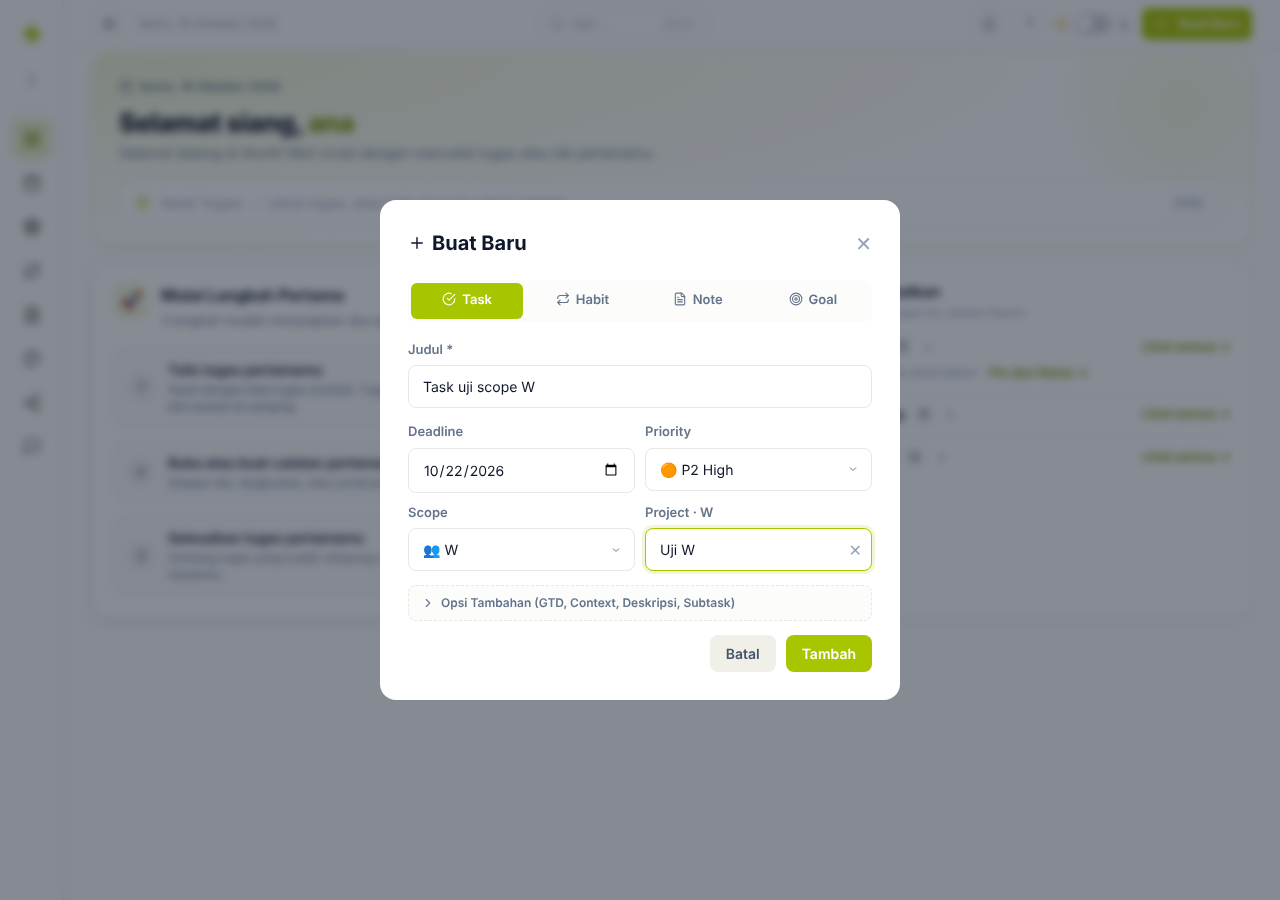
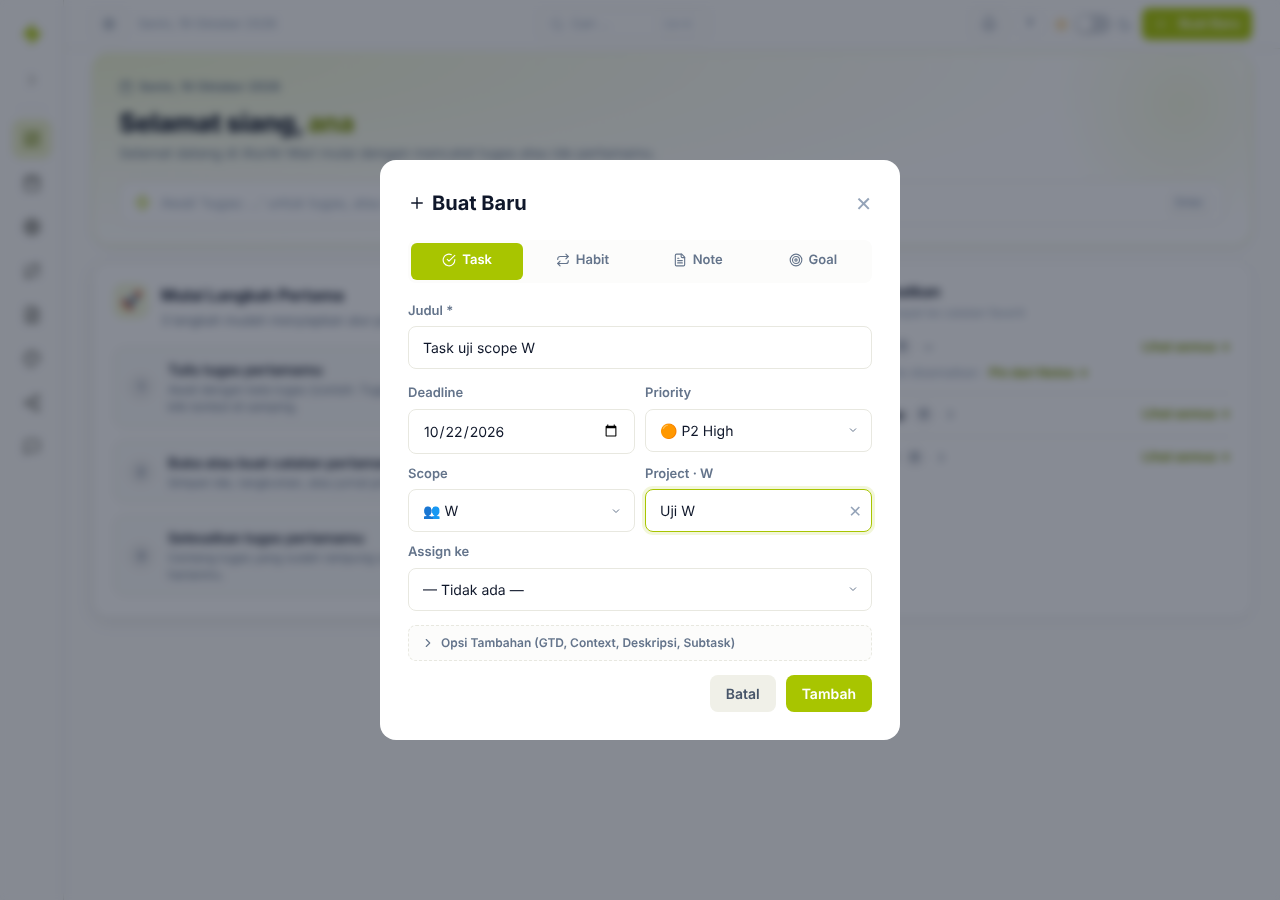
test(e2e): langkah 2c menunggu opsi scope Pribadi; cek Assign ke di baris cepat
Claude-Session: https://claude.ai/code/session_01QibHmWHTKzbucVmVw4YuuX

diff --git a/temporary_files/e2e_project_scope.py b/temporary_files/e2e_project_scope.py
@@ -31,6 +31,7 @@ PW = "rahasia123"
 WS = "W"
 PROJ = "Uji W"
 PROJ2 = "Uji W2"
+PROJ_B = "Rumah Budi"  # project pribadi B: penanda dropdown scope "Pribadi" sudah dimuat (langkah 2c)
 TASK_TITLE = "Task uji scope W"
 SECRET = "e2e-project-scope-secret"
 TOURS = ['dashboard', 'tasks', 'today', 'calendar', 'kanban', 'notes', 'mindmap', 'chat', 'habits', 'habit',
@@ -200,6 +201,8 @@ def main():
             c.execute("INSERT INTO list_members (list_id, user_id, joined_at) VALUES (?,?,?)",
                       (ws_id, B["id"], datetime.now().isoformat()))
         check("setup: B anggota W", any(l["id"] == ws_id for l in api(base, B, "GET", "/api/lists")))
+        api(base, B, "POST", "/api/tasks", json={"title": "Task pribadi B", "project": PROJ_B})
+        check("setup: B punya project pribadi '%s'" % PROJ_B, PROJ_B in api(base, B, "GET", "/api/projects"))
         deadline = (date.today() + timedelta(days=3)).isoformat()
 
         with sync_playwright() as pw:
@@ -215,6 +218,9 @@ def main():
             scope.select_option(label="👥 " + WS)
             sel = project_select(a, "Project · " + WS)
             check("1a label 'Project · W' setelah pilih scope", sel.count() == 1)
+            assign = a.locator(".task-quick-attributes select[aria-label='Assign ke']")
+            check("1a2 'Assign ke' tampil di baris cepat setelah pilih scope W (tanpa buka Opsi Tambahan)",
+                  wait_until(lambda: assign.is_visible(), 10))
             sel.select_option(value="__new__")
             inp = project_select(a, "Project · " + WS).locator("input")
             inp.wait_for()
@@ -239,7 +245,7 @@ def main():
             # ── 2. B: dropdown project per scope ─────────────────────────────────────
             def b_cache():
                 sync_now(b)
-                return PROJ in local_scope_names(b, ws_id)
+                return PROJ in local_scope_names(b, ws_id) and PROJ_B in local_scope_names(b, None)
             check("2a B: sync menarik 'Uji W' ke cache lokal", wait_until(b_cache, 30))
             open_new_task_form(b, base)
             b.locator("select[aria-label='Scope task']").select_option(label="👥 " + WS)
@@ -251,9 +257,11 @@ def main():
             shot(b, "02_B_scope_W_dropdown_memuat_Uji_W.png")
             b.locator("select[aria-label='Scope task']").select_option(label="Pribadi")
             sel = project_select(b, "Project · Pribadi")
-            b.wait_for_timeout(1500)  # beri waktu fetch daftar scope pribadi
+            # tunggu sampai opsi benar-benar daftar scope pribadi (project pribadi B muncul), baru cek negatif
+            loaded = wait_until(lambda: PROJ_B in (option_values(sel) or []), 10)
             vals = option_values(sel) or []
-            check("2c B: scope 'Pribadi' → 'Uji W' tidak ada", PROJ not in vals, repr(vals))
+            check("2c B: scope 'Pribadi' → opsi memuat '%s' dan 'Uji W' tidak ada" % PROJ_B,
+                  loaded and PROJ not in vals, repr(vals))
             check("2d B: ganti ke 'Pribadi' mengosongkan pilihan 'Uji W'", sel.input_value() == "", repr(sel.input_value()))
             caption(b, "B · scope Pribadi · opsi project = %r · terpilih = %r" % (vals, sel.input_value()))
             shot(b, "03_B_scope_Pribadi_tanpa_Uji_W.png")
